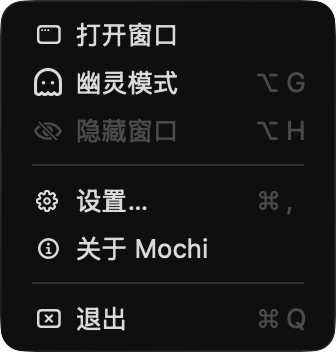
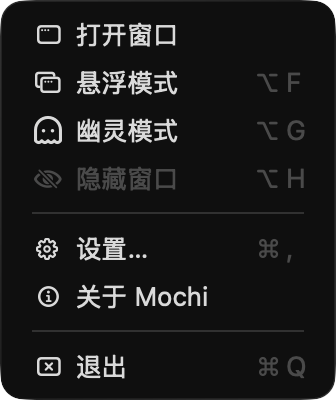
docs(guide): retake the screenshots Float Mode changed
The Empty Page's quick reference now lists 切换悬浮模式 and the
widened scope of 隐藏窗口, and the tray menu has 悬浮模式. Both are
retaken. The old settings-ghost-mode.png is split in two, as #153
left pending: settings-window-modes.png shows the 窗口模式 pane with
始终置顶 and the 隐藏 group, and settings-hotkeys.png shows the 热键
pane. The 视频控制 and 热键传递 crops are recut from the new 热键
image.

All were taken from a packaged build in light appearance with test
data. The checklist in docs/agents/user-guide.md now names the two new
images. It also notes that sips --cropOffset falls back to a centered
crop at 0 0, and how to get the window frontmost for colored traffic
lights.

diff --git a/docs/agents/user-guide.md b/docs/agents/user-guide.md
@@ -16,8 +16,8 @@ git grep -n "旧的界面文案" -- docs/guide/ README.md
 |---|---|---|
 | 菜单栏菜单项、菜单快捷键（`MainMenuBuilder`） | `reference/menus.md`、`reference/shortcuts.md` 的「菜单快捷键」一节 | 无 |
 | 托盘菜单项（`TrayMenu`） | `reference/menus.md` 的「托盘菜单」一节、`tutorials/first-steps.md` | `tray-menu.png` |
-| 默认全局热键（`DefaultHotkeys`，现为 ⌥G / ⌥H） | 旧组合（如 `⌥G`）大半个手册都搜得到，以 grep 结果为准。另外：`reference/shortcuts.md` 是总表；`how-to/troubleshooting.md` 的标题里有 ⌥G / ⌥H，改标题要同步别处链过来的锚点；`how-to/global-hotkeys.md` 写着默认组合在其他应用里打不出的字符（`©` / `˙`） | `settings-ghost-mode.png`、`first-steps-empty-page.png`、`tray-menu.png` |
-| 视频控制的默认按键或步长 | 以 grep 旧按键（如 `右 ⌥`）的结果为准。`reference/shortcuts.md` 是总表，`how-to/video-control.md` 和 `tutorials/first-steps.md` 按步骤写着默认按键，`reference/settings.md` 写着默认值 | `settings-ghost-mode.png`、`settings-video-control.png`、`first-steps-empty-page.png` |
+| 默认全局热键（`DefaultHotkeys`，现为 ⌥G / ⌥H） | 旧组合（如 `⌥G`）大半个手册都搜得到，以 grep 结果为准。另外：`reference/shortcuts.md` 是总表；`how-to/troubleshooting.md` 的标题里有 ⌥G / ⌥H，改标题要同步别处链过来的锚点；`how-to/global-hotkeys.md` 写着默认组合在其他应用里打不出的字符（`©` / `˙`） | `settings-hotkeys.png`、`first-steps-empty-page.png`、`tray-menu.png` |
+| 视频控制的默认按键或步长 | 以 grep 旧按键（如 `右 ⌥`）的结果为准。`reference/shortcuts.md` 是总表，`how-to/video-control.md` 和 `tutorials/first-steps.md` 按步骤写着默认按键，`reference/settings.md` 写着默认值 | `settings-hotkeys.png`、`settings-video-control.png`、`first-steps-empty-page.png` |
 | 设置项增删、改名、改可选项或默认值 | `reference/settings.md` 的对应条目，以及条目「相关页面」里链到的操作指南 | 该面板的 `settings-*.png` |
 | 设置项的生效时机 | `reference/settings.md` 的对应条目，**以及页面开头列举的例外**（现在是「启动时」、自动播放、脚本、HTTP 警告） | 无 |
 | 设置面板的布局（分组、顺序、控件） | `reference/settings.md` 的分节顺序 | 该面板的 `settings-*.png`；热键面板还要重裁 `settings-video-control.png`、`settings-hotkey-forwarding.png` |
@@ -80,9 +80,10 @@ git grep -n "旧的界面文案" -- docs/guide/ README.md
 | `tray-menu.png` | 展开的托盘菜单 | AX 打开菜单后按窗口 ID 截，见下文 | `tutorials/first-steps.md`、`reference/menus.md` |
 | `open-pages-suggestions.png` | 地址栏输入 `wiki`，行内补全成 `wikipedia.org`，下拉列表里有书签和历史记录 | 窗口 ID | `how-to/open-pages.md` |
 | `settings-general.png` | 「设置 › 通用」 | 窗口 ID | `reference/settings.md`、`how-to/open-pages.md` |
-| `settings-ghost-mode.png` | 「设置 › 窗口模式」与「设置 › 热键」两页（#153 拆分后待按 #145 的约定重拍、拆成两张），热键传递里有一条示例映射 | 窗口 ID | `reference/settings.md`、`how-to/ghost-mode.md` |
-| `settings-video-control.png` | 「视频控制」分组 | 从 `settings-ghost-mode.png` 用 `sips -c` 裁出 | `how-to/video-control.md` |
-| `settings-hotkey-forwarding.png` | 「热键传递」分组，一条示例映射：轻按右 ⌃ 发送 D | 从 `settings-ghost-mode.png` 用 `sips -c` 裁出 | `how-to/hotkey-forwarding.md` |
+| `settings-window-modes.png` | 「设置 › 窗口模式」 | 窗口 ID | `reference/settings.md`、`how-to/ghost-mode.md` |
+| `settings-hotkeys.png` | 「设置 › 热键」，热键传递里有一条示例映射：轻按右 ⌃ 发送 D | 窗口 ID | `reference/settings.md` |
+| `settings-video-control.png` | 「视频控制」分组 | 从 `settings-hotkeys.png` 裁出，取景从分组标题上方约 35px 到分隔线下方 | `how-to/video-control.md` |
+| `settings-hotkey-forwarding.png` | 「热键传递」分组，一条示例映射：轻按右 ⌃ 发送 D | 从 `settings-hotkeys.png` 裁出，取景从分组标题上方约 35px 到底部提示文字下方约 30px | `how-to/hotkey-forwarding.md` |
 | `settings-websites.png` | 「设置 › 网站 › 通用」 | 窗口 ID | `reference/settings.md` |
 | `settings-websites-camera.png` | 「设置 › 网站 › 摄像头」 | 窗口 ID | `how-to/camera-and-microphone.md` |
 | `settings-privacy.png` | 「设置 › 隐私与安全性」 | 窗口 ID | `reference/settings.md` |
@@ -120,6 +121,14 @@ git grep -n "旧的界面文案" -- docs/guide/ README.md
 地址栏下拉的建议面板和书签编辑气泡是主窗口的子窗口：对主窗口执行 `screencapture -l<主窗口 id>` 时，它们会一并截进去。`open-pages-suggestions.png`、`bookmark-editor.png` 都是这样直接截主窗口得到的，不用另外合成。
 
 设置窗口上的 sheet（「清除浏览数据」「管理网站和数据」）也一样：截设置窗口就会带上它们，连同后面变暗的面板。`clear-browsing-data.png`、`manage-websites.png` 都是这样截的。
+
+### 裁图
+
+从整页截图里裁分组用 CoreGraphics（`CGImage.cropping(to:)` 再用 `CGImageDestination` 写 PNG），别用 `sips --cropOffset`：偏移量为 `0 0` 时它会退回居中裁剪，裁出来是页面中间的一块。
+
+### 截图时的前台
+
+交通灯在窗口不处于前台时是灰的。截之前用 `osascript` 让 System Events 把 Mochi 设成 frontmost，`lsappinfo front` 确认是 Mochi 后立刻截；Claude.app 可能马上把前台抢回去，没抢到就重试。
 
 ### 托盘菜单
 

diff --git a/docs/guide/reference/settings.md b/docs/guide/reference/settings.md
@@ -60,7 +60,7 @@
 
 ## 窗口模式
 
-![「设置 › 窗口模式」面板](../images/settings-ghost-mode.png)
+![「设置 › 窗口模式」面板](../images/settings-window-modes.png)
 
 ### 悬浮模式
 
@@ -103,6 +103,8 @@
 相关页面：[一键隐藏窗口（老板键）](../how-to/hide-window.md#连程序坞和-tab-里的图标一起藏起来)。
 
 ## 热键
+
+![「设置 › 热键」面板](../images/settings-hotkeys.png)
 
 ### 全局热键
 

diff --git a/docs/guide/how-to/ghost-mode.md b/docs/guide/how-to/ghost-mode.md
@@ -48,7 +48,7 @@
 
 调到 0% 时，幽灵模式下的窗口就完全看不见了。只是想临时把窗口藏起来，用[隐藏窗口](hide-window.md)更合适，不用改设置。
 
-![「设置 › 窗口模式」面板](../images/settings-ghost-mode.png)
+![「设置 › 窗口模式」面板](../images/settings-window-modes.png)
 
 ## 幽灵模式下不能做的事
 
